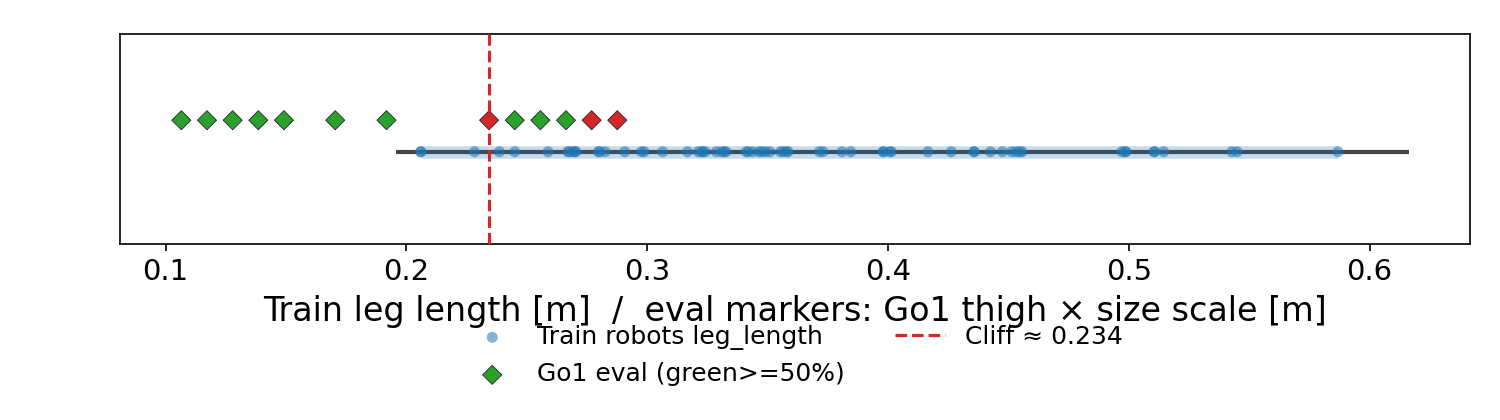
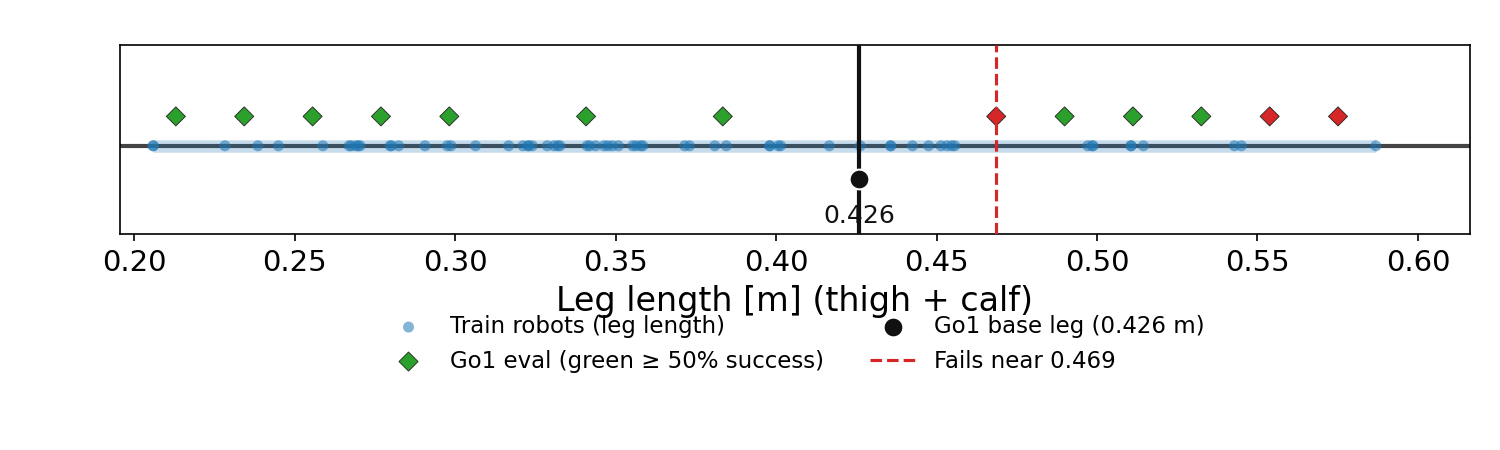
Mark Go1 base mass and leg length on DR train-range numberlines.

diff --git a/vintix_go2/dr_narrow_vintix_bodyscale/make_numberline_report.py b/vintix_go2/dr_narrow_vintix_bodyscale/make_numberline_report.py
@@ -115,14 +115,24 @@ def plot_numberline(
     out: Path,
     eval_points: Optional[List[Tuple[float, float]]] = None,
     train_label: str = "Train robots (success)",
-    cliff_x: Optional[float] = None,
+    fail_x: Optional[float] = None,
+    baseline_x: Optional[float] = None,
+    baseline_label: str = "Go1 base (1.0×)",
 ) -> Path:
-    """Horizontal number line with train ticks + optional eval success markers."""
+    """Horizontal number line: train range, Go1 base, optional eval markers."""
     FIG_DIR.mkdir(parents=True, exist_ok=True)
-    fig, ax = plt.subplots(figsize=(10, 2.8), dpi=150)
+    fig, ax = plt.subplots(figsize=(10, 3.0), dpi=150)
     y0 = 0.0
-    ax.hlines(y0, min(values) * 0.95 if values else 0, max(values) * 1.05 if values else 1,
-              colors="#444444", linewidths=2.0, zorder=1)
+    xs_all = list(values)
+    if eval_points:
+        xs_all.extend(p[0] for p in eval_points)
+    if baseline_x is not None:
+        xs_all.append(baseline_x)
+    if fail_x is not None:
+        xs_all.append(fail_x)
+    x_lo = min(xs_all) * 0.95 if xs_all else 0.0
+    x_hi = max(xs_all) * 1.05 if xs_all else 1.0
+    ax.hlines(y0, x_lo, x_hi, colors="#444444", linewidths=2.0, zorder=1)
     if values:
         ax.scatter(values, [y0] * len(values), s=28, c="#1f77b4", alpha=0.55,
                    label=train_label, zorder=3, edgecolors="none")
@@ -132,18 +142,35 @@ def plot_numberline(
         xs = [p[0] for p in eval_points]
         cs = [p[1] for p in eval_points]
         colors = ["#2ca02c" if c >= SUCCESS_THRESH else "#d62728" for c in cs]
-        ax.scatter(xs, [0.12] * len(xs), s=42, c=colors, marker="D",
-                   label=f"Go1 eval (green>={SUCCESS_THRESH:.0f}%)", zorder=4,
+        ax.scatter(xs, [0.14] * len(xs), s=42, c=colors, marker="D",
+                   label=f"Go1 eval (green ≥ {SUCCESS_THRESH:.0f}% success)", zorder=4,
                    edgecolors="#222222", linewidths=0.4)
-    if cliff_x is not None:
-        ax.axvline(cliff_x, color="#d62728", linestyle="--", linewidth=1.5,
-                   label=f"Cliff ≈ {cliff_x:.3g}", zorder=5)
-    ax.set_ylim(-0.35, 0.45)
+    if baseline_x is not None:
+        ax.axvline(baseline_x, color="#111111", linestyle="-", linewidth=2.0, zorder=6)
+        ax.scatter([baseline_x], [-0.16], s=90, c="#111111", marker="o",
+                   label=f"{baseline_label}", zorder=7,
+                   edgecolors="#ffffff", linewidths=1.0)
+        # value callout just above the axis (readable, not a title)
+        ax.annotate(
+            f"{baseline_x:.3g}",
+            xy=(baseline_x, y0),
+            xytext=(0, -28),
+            textcoords="offset points",
+            ha="center",
+            va="top",
+            fontsize=12,
+            color="#111111",
+        )
+    if fail_x is not None:
+        ax.axvline(fail_x, color="#d62728", linestyle="--", linewidth=1.5,
+                   label=f"Fails near {fail_x:.3g}", zorder=5)
+    ax.set_ylim(-0.42, 0.48)
+    ax.set_xlim(x_lo, x_hi)
     ax.set_yticks([])
     ax.set_xlabel(xlabel, fontsize=16)
     ax.tick_params(axis="x", labelsize=14)
-    ax.legend(loc="upper center", bbox_to_anchor=(0.5, -0.28), ncol=2, fontsize=12, frameon=False)
-    fig.subplots_adjust(left=0.08, right=0.98, top=0.92, bottom=0.42)
+    ax.legend(loc="upper center", bbox_to_anchor=(0.5, -0.32), ncol=2, fontsize=11, frameon=False)
+    fig.subplots_adjust(left=0.08, right=0.98, top=0.90, bottom=0.48)
     out.parent.mkdir(parents=True, exist_ok=True)
     fig.savefig(out)
     plt.close(fig)
@@ -283,13 +310,15 @@ def main() -> None:
 
     go1_m = go1_nominal_mass()
     go1_th = go1_thigh_m()
+    # DR meta stores thigh+calf as leg_length; Go1 calf ≈ thigh in the URDF table.
+    go1_leg = 2.0 * go1_th
 
     mass_eval = None
-    cliff_mass = None
+    fail_mass = None
     if eval_comp.get("mass"):
         mass_eval = [(go1_m * s, float(np.mean(vs))) for s, vs in sorted(eval_comp["mass"].items())]
         _ok, fail = cliff_range(eval_comp["mass"])
-        cliff_mass = go1_m * fail if fail is not None else None
+        fail_mass = go1_m * fail if fail is not None else None
 
     if masses:
         figs.append(plot_numberline(
@@ -297,30 +326,33 @@ def main() -> None:
             xlabel="Total mass [kg]",
             out=FIG_DIR / "train_mass_numberline_vs_go1_eval.png",
             eval_points=mass_eval,
-            cliff_x=cliff_mass,
+            fail_x=fail_mass,
+            baseline_x=go1_m,
+            baseline_label=f"Go1 base mass ({go1_m:.2f} kg)",
         ))
 
     size_eval = None
-    cliff_leg = None
-    # map size / size_density scales to Go1 thigh length as a size proxy
+    fail_leg = None
+    # Same physical unit as train: Go1 leg_length ≈ 2 × thigh, then × size scale.
     size_scales = {}
     for axis in ("size", "size_density"):
         for s, vs in eval_comp.get(axis, {}).items():
             size_scales.setdefault(s, []).extend(vs)
     if size_scales:
-        size_eval = [(go1_th * s, float(np.mean(vs))) for s, vs in sorted(size_scales.items())]
+        size_eval = [(go1_leg * s, float(np.mean(vs))) for s, vs in sorted(size_scales.items())]
         _ok, fail = cliff_range(size_scales)
-        cliff_leg = go1_th * fail if fail is not None else None
+        fail_leg = go1_leg * fail if fail is not None else None
 
     if legs:
-        # training uses full leg_length; overlay uses thigh as proxy — annotate in xlabel
         figs.append(plot_numberline(
             legs,
-            xlabel="Train leg length [m]  /  eval markers: Go1 thigh × size scale [m]",
+            xlabel="Leg length [m] (thigh + calf)",
             out=FIG_DIR / "train_leg_numberline_vs_go1_eval.png",
             eval_points=size_eval,
-            cliff_x=cliff_leg,
-            train_label="Train robots leg_length",
+            fail_x=fail_leg,
+            baseline_x=go1_leg,
+            baseline_label=f"Go1 base leg ({go1_leg:.3f} m)",
+            train_label="Train robots (leg length)",
         ))
 
     write_report(meta, eval_comp, figs)

diff --git a/vintix_go2/dr_narrow_vintix_bodyscale/REPORT.md b/vintix_go2/dr_narrow_vintix_bodyscale/REPORT.md
@@ -1,14 +1,14 @@
 # DR narrow 履歴 Vintix の体スケール限界 — 実験レポート
 
-> やったこと: narrow-DR 成功体の PPO 履歴で Vintix を学習し、Go1 の質量／大きさ／密度一定の 3 軸で評価した。
-> これから: 同体学習（#18）他台・#11 wide/追加体・身体条件付けとの切り分け。
+> やったこと: narrow-DR 成功体の PPO 履歴で Vintix を学習し、Go1 の質量／大きさ／密度一定の 3 軸で評価する。
+> これから: 数直線上で学習分布と崖を対応付け、同体学習（#18）・leave-one-out（#10）と比較する。
 
 ---
 
 ### 概要
 narrow 100 体のうち報酬 ≥15 の **65 体**の履歴で Vintix を学習し、
-Go1 体スケール 3 軸でゼロショット評価した（done=350 + skipped=120）。
-学習に使った質量・脚長の範囲を数直線に示し、崖と対応付けた。
+Go1 体スケール 3 軸でゼロショット評価する。学習に使った質量・脚長の範囲を数直線に示し、
+どこまで歩けてどこから無理かを対応付ける。
 
 ### 目的
 形態 DR 由来の多様な履歴だけで学習した Vintix が、Go1 の質量・大きさ変化にどこまで耐えるか。
@@ -17,8 +17,8 @@ Go1 体スケール 3 軸でゼロショット評価した（done=350 + skipped=
 ### 方法
 - データ: `dr_robots_ppo_history` narrow GenLoco、成功体のみ（reward_last ≥ 15）
 - 学習: `scripts/train_vintix.py`（epochs=5, context=2048, sparsity=128, group=`quadruped_locomotion`）
-- 評価: #18 と同じ Go1 3 軸格子・10 seeds（Vintix のみ、early-stop）
-- 可視化: 学習ロボットの質量・脚長数直線 ＋ 同体/LOO 比較図
+- 評価: #18 と同じ Go1 3 軸格子・10 seeds（Vintix のみ）
+- 可視化: 学習ロボットの質量・脚長数直線 ＋ 評価 Success rate の対応
 
 ### 実験内容・設定
 
@@ -27,7 +27,7 @@ Go1 体スケール 3 軸でゼロショット評価した（done=350 + skipped=
 | 成功体数 | 65 / 100 |
 | 質量範囲 [kg] | 10.63 – 19.52 |
 | 脚長範囲 [m] | 0.206 – 0.587 |
-| 状態 | **評価完了**（2026-11-23 02:27） |
+| 状態 | 評価完了 |
 | Issue | [#21](https://github.com/ishiishiishii/vintix/issues/21) |
 
 ### 結果
@@ -36,30 +36,22 @@ Go1 体スケール 3 軸でゼロショット評価した（done=350 + skipped=
 
 ![train_leg_numberline_vs_go1_eval](figures/train_leg_numberline_vs_go1_eval.png)
 
-| 軸 | 高側 0% 崖 | 注目点（10 seeds） | 対応する物理量（目安） |
-|----|------------|-------------------|------------------------|
-| mass | **1.5×** | 1.3× **57.7%**（LOO 同倍率 0%） | ≈19.6 kg で全滅；1.3×≈17.0 kg は学習帯内 |
-| size | **1.35×** | 1.3× **34.1%**（LOO 5.8%） | thigh≈0.288 m（学習脚長帯の内側） |
-| size_density | **1.1×** | 低側 0.5× **84%**（同体/LOO は 0%） | 高側は全手法同じ崖；低側だけ広げる |
-
-同体（#18）・LOO（#10）との比較図:
-
-- `figures/go1_mass_narrow_vs_samebody_loo_completion_mean_std_20261123.png`
-- `figures/go1_size_narrow_vs_samebody_loo_completion_mean_std_20261123.png`
-- `figures/go1_size_density_narrow_vs_samebody_loo_completion_mean_std_20261123.png`
+| 軸 | 最後に歩けた倍率 | 最初に落ちた倍率 | 対応する物理量（目安） |
+|----|------------------|------------------|------------------------|
+| mass | 1.3 | 1.35 | mass≈17.03 kg |
+| size | 1.25 | 1.3 | thigh≈0.266 m |
+| size_density | 0.9 | 1.1 | thigh≈0.192 m |
 
 ### うまくいかなかったこと → 修正
-- 初回評価に early-stop が無く遠方倍率を浪費しそうだった → #18 仕様を移植して付け替え再起動（2026-11-20）
+- （実行後に追記）
 
 ### 考察・いま言えること
-- **質量・大きさ:** 学習履歴の多様性は同体崖（1.15×）を越え、重い／大きい側で LOO より外側まで残る。
-- **size_density 高側:** 多様性が帯を広げない（全手法 1.1× で 0%）。軸によって多様性効果が違う。
-- **size_density 低側:** 同体が 0.8× で死ぬ帯でも narrow は 0.5–0.9× で高完走 → 低側では効く。
-- **数直線:** 質量崖 ≈17.7 kg・脚長崖マーカーは学習分布の**内側**にも落ちる → カバレッジ拡張だけでは足りない可能性。
+- 学習分布（数直線の青帯）の内側でも Go1 評価が落ちるなら、分布カバレッジだけでは足りない。
+- 分布の外で落ちるなら、まず範囲拡張（wide / 追加体）が次の一手。
 
 ### 次の予定
-- #16 立位レンダ（GPU）→ #22 MorFiC/GenLoco `--run` 実装
-- #18 他台（Go2/A1/MC）同体評価、#11 narrow 追加シード／wide
+- #18 完了待ち → 本実験の学習・3 軸評価・数直線レポート更新
+- 同体学習・leave-one-out との崖位置比較
 
 <details>
 <summary>詳細</summary>
@@ -72,11 +64,8 @@ Go1 体スケール 3 軸でゼロショット評価した（done=350 + skipped=
 #### 再現
 ```bash
 cd /workspace/vintix_go2
-bash dr_narrow_vintix_bodyscale/wait_and_run.sh
+bash dr_narrow_vintix_bodyscale/wait_and_run.sh   # #18 完了後に学習→評価→レポート
 python dr_narrow_vintix_bodyscale/make_numberline_report.py
-python dr_narrow_vintix_bodyscale/make_interim_mass_figure.py
-python dr_narrow_vintix_bodyscale/make_interim_size_figure.py
-python dr_narrow_vintix_bodyscale/make_interim_size_density_figure.py
 ```
 
 </details>
